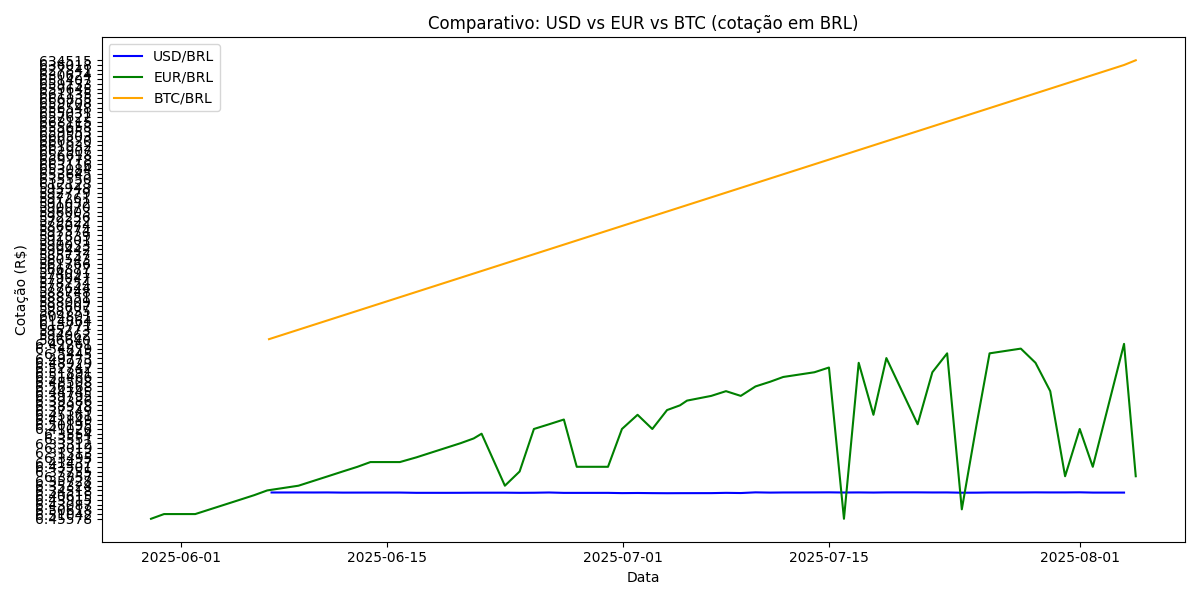
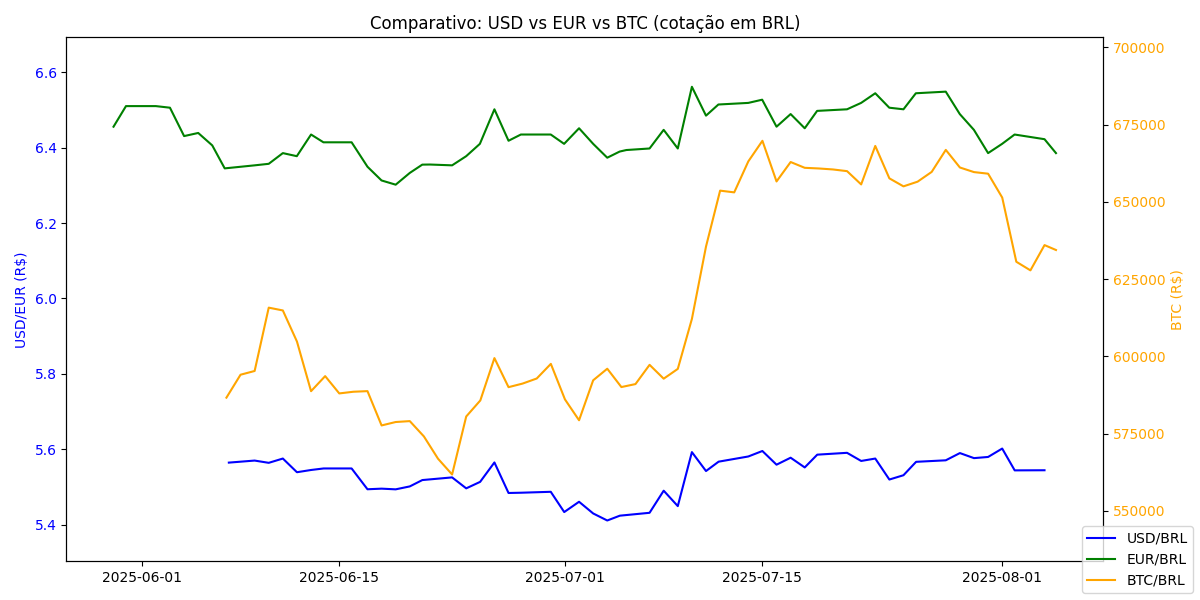
Corrige erro de tipo na coluna EUR e BTC

diff --git a/main.py b/main.py
@@ -9,7 +9,8 @@ from coletar_dados import coletar_moedas_comparativas
 
 
 import matplotlib
-matplotlib.use('Agg') #------- PARA AMBIENTES SEM GUI
+matplotlib.use('Agg')  # ------- PARA AMBIENTES SEM GUI
+
 
 def main():
     print("Coletando dados da API...")
@@ -29,7 +30,7 @@ def main():
     # ----- SALVAR CSV
     forecast_df.to_csv("output/previsao_usdbrl.csv", index=False)
 
-    # ----- GRAFICOS 
+    # ----- GRAFICOS
     plt.figure(figsize=(12, 6))
     plt.plot(df.index, df['venda'], label='Histórico', color='gray')
     plt.plot(df.index, df['media_movel_5d'],
@@ -58,22 +59,39 @@ def main():
     plt.tight_layout()
     plt.savefig("output/histograma_variacao.png")
 
-
     # ---- Dólar x Euro x Bitcoin
-    print("Gerando gráfico comparativo com Euro e Bitcoin...")
     comparativos = coletar_moedas_comparativas()
     df_eur = comparativos["EUR"]
     df_btc = comparativos["BTC"]
 
-    plt.figure(figsize=(12, 6))
-    plt.plot(df.index, df['venda'], label="USD/BRL", color='blue')
-    plt.plot(df_eur.index, df_eur['EUR'], label="EUR/BRL", color='green')
-    plt.plot(df_btc.index, df_btc['BTC'], label="BTC/BRL", color='orange')
+    df_eur['EUR'] = pd.to_numeric(df_eur['EUR'], errors='coerce')
+    df_btc['BTC'] = pd.to_numeric(df_btc['BTC'], errors='coerce')
+
+    fig, ax1 = plt.subplots(figsize=(12, 6))
+
+    # ------- (USD e EUR)
+    ax1.plot(df.index, df['venda'], label="USD/BRL", color='blue')
+    ax1.plot(df_eur.index, df_eur['EUR'], label="EUR/BRL", color='green')
+    ax1.set_ylabel("USD/EUR (R$)", color='blue')
+    ax1.tick_params(axis='y', labelcolor='blue')
+    ax1.set_ylim(df['venda'].min() * 0.98, df_eur['EUR'].max()
+                 * 1.02)  
+    ax1.yaxis.set_major_locator(plt.MaxNLocator(8))
+
+    # ------ (BTC)
+    ax2 = ax1.twinx()
+    ax2.plot(df_btc.index, df_btc['BTC'], label="BTC/BRL", color='orange')
+    ax2.set_ylabel("BTC (R$)", color='orange')
+    ax2.tick_params(axis='y', labelcolor='orange')
+    ax2.set_ylim(df_btc['BTC'].min() * 0.95, df_btc['BTC'].max() * 1.05)
+    ax2.yaxis.set_major_locator(plt.MaxNLocator(8))
+
     plt.title("Comparativo: USD vs EUR vs BTC (cotação em BRL)")
-    plt.xlabel("Data")
-    plt.ylabel("Cotação (R$)")
-    plt.legend()
-    plt.tight_layout()
+    lines_1, labels_1 = ax1.get_legend_handles_labels()
+    lines_2, labels_2 = ax2.get_legend_handles_labels()
+    fig.legend(lines_1 + lines_2, labels_1 + labels_2, loc="lower right")
+
+    fig.tight_layout()
     plt.savefig("output/grafico_comparativo_ativos.png")
 
     # ----- RELATÓRIO
